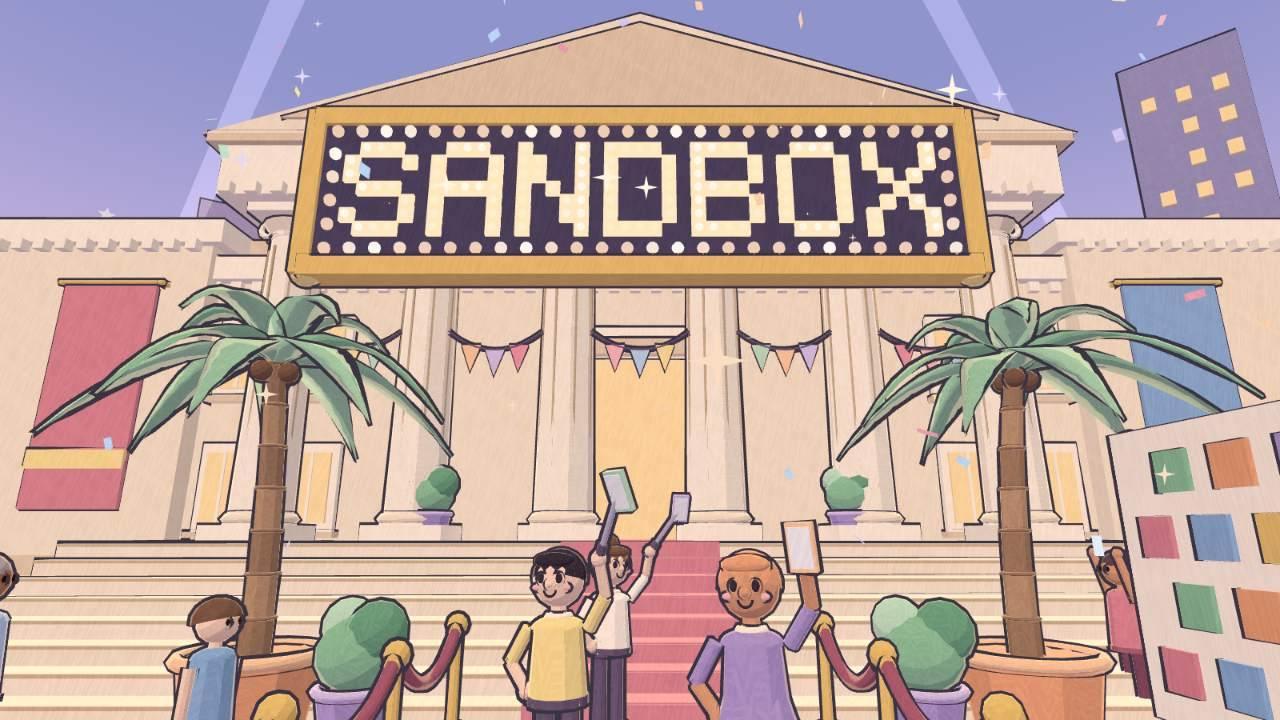
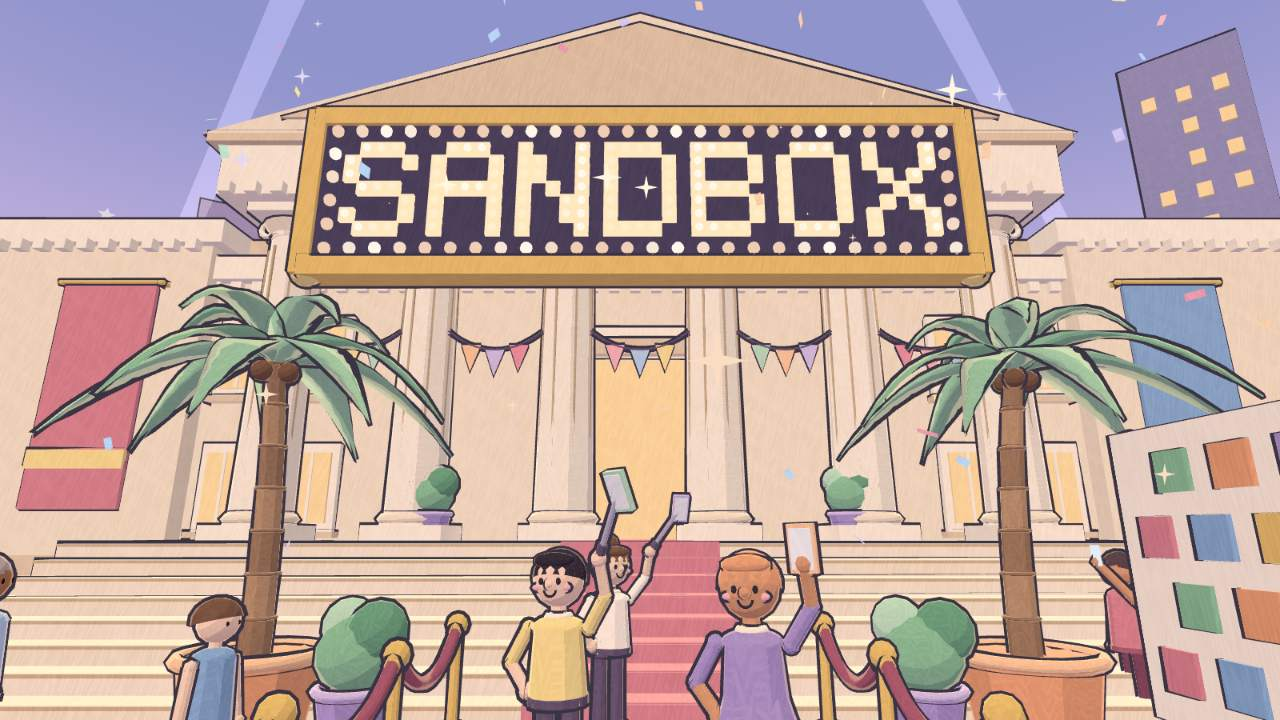
fix(hero): friendlier eyes, props held in hands, joined-up limbs (#19)
* fix(hero): friendlier eyes, props held in hands, joined-up limbs

- Eyes are small solid dark dots on everyone, left out of the ink outline
  (the hull drew a ring round each tiny eye, which made them stare).
- Crowd arms are posed one at a time from the shoulder; phones and the
  paparazzi's cameras are placed from the hands every frame, so they stay
  gripped through the bounce, sway and waving.
- Shoulder and elbow balls close the joints; resting hands hang clear of the
  hips; the crowd's necks reach into the shoulders on the lite tier.
- Influencers' phones stand in the hand (or on the selfie stick's end).
- Posters re-rendered.

* fix(hero): eyes take the palette's ink

---------

diff --git a/src/hero/scene.js b/src/hero/scene.js
@@ -1582,20 +1582,35 @@ function crowdBody(low) {
   return mergeGeometries(parts);
 }
 
+/** The eyes, the same on everyone: small solid dots, a little taller than wide, with no outline. */
+const EYE_INK = INK;
+
 /**
  * A crowd member's head on its neck: the instance colour is the skin; the eyes
- * are baked in, the hair is its own mesh. @param {boolean} low the lite tiers' version
+ * are baked in, the hair is its own mesh. The neck reaches down into the
+ * shoulders, so no gap opens under it. The outline hull (userData.hull) is the
+ * head and neck only: an ink ring round each little eye made them stare.
+ * @param {boolean} low the lite tiers' version
  */
 function crowdHead(low) {
-  const parts = [
-    tinted(new CylinderGeometry(0.06, 0.07, 0.12, 5, 1, true), '#FFFFFF', place(0, 0.05, 0)),
+  const solid = [
+    tinted(new CylinderGeometry(0.06, 0.07, 0.18, 5, 1, true), '#FFFFFF', place(0, 0.02, 0)),
     low
       ? tinted(new IcosahedronGeometry(0.2, 1), '#FFFFFF', place(0, 0.29, 0))
       : tinted(new SphereGeometry(0.2, 10, 7), '#FFFFFF', place(0, 0.29, 0)),
   ];
-  for (const sx of [-1, 1])
-    parts.push(tinted(new IcosahedronGeometry(0.028, 0), '#3A2A30', placeScaled(sx * 0.07, 0.3, 0.185, [1, 1.3, 0.6])));
-  return mergeGeometries(parts);
+  const eyes = [-1, 1].map((sx) =>
+    tinted(
+      new SphereGeometry(0.019, low ? 5 : 6, low ? 3 : 4),
+      EYE_INK,
+      placeScaled(sx * 0.068, 0.285, 0.182, [1, 1.3, 0.6]),
+    ),
+  );
+  const geometry = mergeGeometries([...solid, ...eyes]);
+  const outline = mergeGeometries(solid.map((g) => g.clone().deleteAttribute('color').deleteAttribute('normal')));
+  geometry.userData.hull = hullGeometry(outline);
+  outline.dispose();
+  return geometry;
 }
 
 /**
@@ -1632,19 +1647,24 @@ const CROWD_HAIR = [
   COCOA,
 ];
 
+/** Where a crowd member's hand is, in the frame of one arm (`crowdArm`). */
+export const CROWD_HAND = new Vector3(0, -0.6, 0.01);
+/** A crowd member's shoulders, in their body's frame (scaled by their build). */
+export const CROWD_SHOULDER = new Vector3(0.27, 1.38, 0);
+
 /**
- * Both arms hanging from the shoulders (the origin), hands at the bottom;
- * rotate the instance to raise them. @param {boolean} low the lite tiers' version
+ * One arm hanging from its shoulder (the origin), the hand at the bottom
+ * (`CROWD_HAND`); turn the instance to point it. The shoulder is a ball, so
+ * the arm stays joined to the body however it is raised.
+ * @param {boolean} low the lite tiers' version
  */
-function crowdArms(low) {
-  const parts = [];
-  for (const sx of [-1, 1]) {
-    parts.push(
-      tinted(new CylinderGeometry(0.06, 0.055, 0.56, low ? 4 : 6, 1, true), '#FFFFFF', place(sx * 0.27, -0.28, 0)),
-    );
-    parts.push(tinted(new IcosahedronGeometry(0.075, 0), '#FFFFFF', place(sx * 0.27, -0.6, 0.01)));
-  }
-  return mergeGeometries(parts);
+function crowdArm(low) {
+  const sides = low ? 5 : 6;
+  return mergeGeometries([
+    tinted(new SphereGeometry(0.066, sides, 3), '#FFFFFF'),
+    tinted(new CylinderGeometry(0.06, 0.055, 0.56, sides, 1, true), '#FFFFFF', place(0, -0.28, 0)),
+    tinted(new IcosahedronGeometry(0.075, 0), '#FFFFFF', place(CROWD_HAND.x, CROWD_HAND.y, CROWD_HAND.z)),
+  ]);
 }
 
 /**
@@ -1770,13 +1790,15 @@ function crowd(count, paparazzi, random, low = false) {
   const material = toon({ vertexColors: true });
   const body = new InstancedMesh(crowdBody(low), material, n);
   const head = new InstancedMesh(crowdHead(low), material, n);
+  head.userData.hull = head.geometry.userData.hull;
   const shortHaired = folks.filter((f) => f.hair !== 1);
   const longHaired = folks.filter((f) => f.hair === 1);
   const hairShort = new InstancedMesh(crowdHair(low, false), material, Math.max(1, shortHaired.length));
   const hairLong = new InstancedMesh(crowdHair(low, true), material, Math.max(1, longHaired.length));
   /** Each person's slot in their hair mesh. */
   const hairSlot = folks.map((f) => (f.hair === 1 ? longHaired : shortHaired).indexOf(f));
-  const arms = new InstancedMesh(crowdArms(low), material, n);
+  // Two arms each, so each can reach on its own: slots 2i and 2i + 1.
+  const arms = new InstancedMesh(crowdArm(low), material, n * 2);
   const phones = new InstancedMesh(new BoxGeometry(0.16, 0.28, 0.04), new MeshBasicMaterial({ color: '#E3EEFB' }), n);
   const cameras = new InstancedMesh(
     mergeGeometries([
@@ -1790,6 +1812,8 @@ function crowd(count, paparazzi, random, low = false) {
   body.name = 'crowd-bodies';
   head.name = 'crowd-heads';
   arms.name = 'crowd-arms';
+  phones.name = 'crowd-phones';
+  cameras.name = 'crowd-cameras';
   hairShort.name = 'crowd-hair';
   hairLong.name = 'crowd-hair-long';
   const skin = SKIN.map((c) => new Color(c));
@@ -1797,7 +1821,8 @@ function crowd(count, paparazzi, random, low = false) {
     const top = f.camera ? DUSK : (random() < 0.5 ? MIDS : BRIGHTS)[Math.floor(random() * 6)];
     body.setColorAt(i, new Color(top));
     head.setColorAt(i, skin[i % skin.length]);
-    arms.setColorAt(i, skin[i % skin.length]);
+    arms.setColorAt(i * 2, skin[i % skin.length]);
+    arms.setColorAt(i * 2 + 1, skin[i % skin.length]);
     (f.hair === 1 ? hairLong : hairShort).setColorAt(hairSlot[i], new Color(f.hairColor));
   });
   hairShort.count = shortHaired.length;
@@ -1814,15 +1839,46 @@ function crowd(count, paparazzi, random, low = false) {
 
   const m = new Matrix4();
   const q = new Quaternion();
-  const raise = new Quaternion();
+  const reach = new Quaternion();
   const s = new Vector3();
   const p = new Vector3();
   const up = new Vector3(0, 1, 0);
-  const side = new Vector3(1, 0, 0);
-  const offset = new Vector3();
+  const down = new Vector3(0, -1, 0);
   const flat = new Quaternion();
   const built = new Vector3();
   const puff = new Vector3();
+  const shoulder = new Vector3();
+  const dir = new Vector3();
+  const hands = [new Vector3(), new Vector3()];
+  /** The phone's centre above the hand gripping its lower end. */
+  const phoneGrip = new Vector3(0, 0.085, 0);
+  /**
+   * A direction for an arm, in the body's frame: from shoulder x `from`, so
+   * the hand (at `length`) ends at body x `to`, rising `rise` radians from
+   * straight ahead (negative is down).
+   * @param {number} from @param {number} to @param {number} length @param {number} rise
+   */
+  const aim = (from, to, length, rise) => {
+    const dx = clamp((to - from) / length, -0.95, 0.95);
+    const k = Math.sqrt(1 - dx * dx);
+    return dir.set(dx, k * Math.sin(rise), k * Math.cos(rise));
+  };
+  /**
+   * Points one arm (`side` -1 or 1) of person `i` along `direction` (body
+   * frame) from their shoulder, and returns where its hand is, in world space.
+   * @param {number} i @param {number} side @param {Vector3} direction @param {number} hop
+   */
+  const pose = (i, side, direction, hop) => {
+    const f = folks[i];
+    shoulder
+      .set(side * CROWD_SHOULDER.x * f.w, CROWD_SHOULDER.y * f.h, 0)
+      .applyQuaternion(q)
+      .add(p.set(f.x, hop, f.z));
+    reach.setFromUnitVectors(down, direction.normalize()).premultiply(q);
+    const slot = i * 2 + (side > 0 ? 1 : 0);
+    arms.setMatrixAt(slot, m.compose(shoulder, reach, built));
+    return hands[side > 0 ? 1 : 0].copy(CROWD_HAND).applyMatrix4(m);
+  };
   /**
    * @param {number} t
    * @param {InstancedMesh} blobs the shared contact shadows; fills from `slot`
@@ -1843,25 +1899,28 @@ function crowd(count, paparazzi, random, low = false) {
       puff.copy(s);
       if (f.hair === 2) puff.x = puff.z = s.x * 1.12;
       (f.hair === 1 ? hairLong : hairShort).setMatrixAt(hairSlot[i], m.compose(p, q, f.hair === 1 ? s : puff));
-      // Arms from the shoulders: down, hands together in front, raised and
-      // cheering, or up to the face holding a camera.
-      const angle = f.camera
-        ? -2.45
-        : f.arms
-          ? Math.PI + 0.35 + 0.15 * Math.sin(t * 2.1 + f.phase)
-          : f.front
-            ? -0.42
-            : 0.06;
-      raise.setFromAxisAngle(side, angle);
-      arms.setMatrixAt(i, m.compose(p.set(f.x, hop + 1.38 * f.h, f.z), flat.copy(q).multiply(raise), built));
-      if (f.phone || f.camera) {
-        offset
-          .set(0, f.camera ? 0.44 : 0.68, f.camera ? 0.4 : 0.22)
-          .multiplyScalar(f.h)
-          .applyQuaternion(q);
-        p.set(f.x, hop + 1.38 * f.h, f.z).add(offset);
-        if (f.camera) cameras.setMatrixAt(c++, m.compose(p, q, s.set(1, 1, 1)));
-        else phones.setMatrixAt(k++, m.compose(p, q, s.set(1, 1, 1)));
+      // Arms from the shoulders: down (clear of the hips), hands together in
+      // front, raised and cheering, one up holding a phone, or both up to the
+      // face holding a camera. Whatever they hold is placed from the hands.
+      const from = CROWD_SHOULDER.x * f.w;
+      const length = -CROWD_HAND.y * f.h;
+      const wave = 0.15 * Math.sin(t * 2.1 + f.phase);
+      for (const sx of [-1, 1]) {
+        if (f.camera) pose(i, sx, aim(sx * from, sx * 0.2, length, 0.78), hop);
+        else if (f.phone && sx > 0) pose(i, sx, aim(from, 0.12, length, 1.05 + wave), hop);
+        else if (f.arms && !f.phone) pose(i, sx, dir.set(sx * 0.35, 0.9, 0.3 + wave), hop);
+        else if (f.front) pose(i, sx, aim(sx * from, sx * 0.08, length, -0.98), hop);
+        else pose(i, sx, dir.set(sx * 0.15, -1, 0.06), hop);
+      }
+      if (f.camera) {
+        // Held in both hands, which grip its sides.
+        p.copy(hands[0]).add(hands[1]).multiplyScalar(0.5);
+        cameras.setMatrixAt(c++, m.compose(p, q, s.set(1, 1, 1)));
+        emitters[devices.indexOf(f)].position.copy(p);
+      } else if (f.phone) {
+        // Upright in the raised hand, which closes round its lower end.
+        p.copy(phoneGrip).applyQuaternion(q).add(hands[1]);
+        phones.setMatrixAt(k++, m.compose(p, q, s.set(1, 1, 1)));
         emitters[devices.indexOf(f)].position.copy(p);
       }
       // The contact shadow: a little smaller and lighter while they're up on their toes.
@@ -1883,7 +1942,7 @@ function crowd(count, paparazzi, random, low = false) {
  * shoes, legs (or a skirt), a top with a collar and a belt, arms with hands
  * (one on the hip, one up holding a phone or a selfie stick), a neck, a round
  * head with eyes, cheeks, a nose and a smile, and hair (a bob, a ponytail or
- * a bun). Returns where the phone is, for the flashes.
+ * a bun). Returns where the phone is, for the flashes, and the hand holding it.
  * @param {Batch} b
  * @param {{ outfit: string, hair: string, skin: string, case: string, stick: boolean, skirt: boolean, style: number }} look
  */
@@ -1905,11 +1964,12 @@ function figure(b, look) {
   b.add(new CylinderGeometry(0.275, 0.275, 0.07, 14), look.skirt ? BUTTER_MID : PLUM, place(0, 0.92, 0));
   b.add(new TorusGeometry(0.1, 0.035, 6, 12), STONE_TRIM, place(0, 1.6, 0, 0, Math.PI / 2));
   b.cylinder(0.065, 0.075, 0.16, 10, skin, 0, 1.66, 0);
-  // Head and face.
+  // Head and face. The eyes are small solid dots like the crowd's, with no
+  // outline: an ink ring round them made them stare.
   const hy = 1.92;
   b.ball(0.24, skin, 0, hy, 0, [1, 1.02, 1], 12);
   for (const sx of [-1, 1]) {
-    b.ball(0.034, INK, sx * 0.085, hy + 0.02, 0.215, [1, 1.35, 0.6], 8);
+    b.add(new SphereGeometry(0.024, 8, 6), EYE_INK, placeScaled(sx * 0.082, hy - 0.005, 0.222, [1, 1.3, 0.6]), false);
     b.ball(0.045, ROSE, sx * 0.14, hy - 0.06, 0.18, [1, 0.6, 0.4], 8);
   }
   b.ball(0.035, skin, 0, hy - 0.03, 0.235, [1, 0.9, 1], 8);
@@ -1923,28 +1983,32 @@ function figure(b, look) {
   b.ball(0.16, hair, 0, hy + 0.17, 0.12, [1.25, 0.45, 0.7], 10);
   if (look.style === 1) b.ball(0.12, hair, 0, hy - 0.05, -0.26, [0.8, 1.6, 0.8], 10);
   if (look.style === 2) b.ball(0.12, hair, 0, hy + 0.27, -0.06, [1, 1, 1], 10);
+  // Arms in sleeves to the elbow, then bare forearms and hands. Balls at the
+  // shoulders and elbows keep each joint closed whatever its angle.
+  /** @param {Vector3} shoulder @param {Vector3} elbow @param {Vector3} hand */
+  const arm = (shoulder, elbow, hand) => {
+    b.ball(0.066, outfit, shoulder.x, shoulder.y, shoulder.z, [1, 1, 1], 8);
+    b.pole(shoulder, elbow, 0.06, outfit, 8);
+    b.ball(0.06, outfit, elbow.x, elbow.y, elbow.z, [1, 1, 1], 8);
+    b.pole(elbow, hand, 0.052, skin, 8);
+    b.ball(0.075, skin, hand.x, hand.y, hand.z, [1, 1, 1], 8);
+  };
   // Left arm: elbow out, hand on the hip.
-  const lShoulder = new Vector3(-0.29, 1.5, 0);
-  const lElbow = new Vector3(-0.47, 1.2, -0.02);
-  const lHand = new Vector3(-0.28, 0.98, 0.04);
-  b.pole(lShoulder, lElbow, 0.06, outfit, 8);
-  b.pole(lElbow, lHand, 0.052, skin, 8);
-  b.ball(0.075, skin, lHand.x, lHand.y, lHand.z, [1, 1, 1], 8);
+  arm(new Vector3(-0.29, 1.5, 0), new Vector3(-0.47, 1.2, -0.02), new Vector3(-0.28, 0.98, 0.04));
   // Right arm: up, holding the phone or the selfie stick.
-  const rShoulder = new Vector3(0.29, 1.5, 0);
-  const rElbow = new Vector3(0.48, 1.78, 0.1);
   const rHand = new Vector3(0.46, 2.1, 0.22);
-  b.pole(rShoulder, rElbow, 0.06, outfit, 8);
-  b.pole(rElbow, rHand, 0.052, skin, 8);
-  b.ball(0.075, skin, rHand.x, rHand.y, rHand.z, [1, 1, 1], 8);
-  // A short selfie stick in light metal with a grip, or the phone in the hand.
-  const tip = look.stick ? new Vector3(0.74, 2.66, 0.5) : new Vector3(0.46, 2.22, 0.32);
+  arm(new Vector3(0.29, 1.5, 0), new Vector3(0.48, 1.78, 0.1), rHand);
+  // The phone: a pastel case, its screen out toward the crowd. On a short
+  // selfie stick in light metal, gripped in the hand, it sits on the stick's
+  // end; otherwise it stands in the hand, which closes round its lower end.
+  const face = new Vector3(0, 1.9, 2);
+  const tip = look.stick ? new Vector3(0.74, 2.66, 0.5) : rHand.clone();
+  const phone = new Matrix4().lookAt(tip, face, new Vector3(0, 1, 0));
   if (look.stick) {
     b.pole(rHand, tip, 0.028, METAL, 6);
     b.pole(rHand.clone().lerp(tip, -0.12), rHand.clone().lerp(tip, 0.22), 0.045, PLUM, 8);
-  }
-  // The phone: a pastel case, its screen out toward the crowd.
-  const phone = new Matrix4().lookAt(tip, new Vector3(0, 1.9, 2), new Vector3(0, 1, 0)).setPosition(tip);
+  } else tip.add(new Vector3(0, 0.11, 0).applyMatrix4(phone));
+  phone.setPosition(tip);
   b.add(new BoxGeometry(0.21, 0.36, 0.05), look.case, phone);
   b.add(
     new BoxGeometry(0.17, 0.3, 0.02),
@@ -1952,7 +2016,7 @@ function figure(b, look) {
     phone.clone().multiply(new Matrix4().makeTranslation(0, 0, -0.03)),
     false,
   );
-  return tip;
+  return { phone: tip, hand: rHand };
 }
 
 /**
@@ -1981,8 +2045,10 @@ function influencers(random, still) {
   const emitters = [];
   looks.forEach((look, i) => {
     const b = new Batch();
-    const tip = figure(b, { ...look, skin: SKIN[(i * 2) % SKIN.length], case: BRIGHTS[(i + 3) % BRIGHTS.length] });
+    const held = figure(b, { ...look, skin: SKIN[(i * 2) % SKIN.length], case: BRIGHTS[(i + 3) % BRIGHTS.length] });
+    const tip = held.phone;
     const g = new Group();
+    g.userData.held = { ...held, stick: look.stick };
     g.add(b.mesh());
     // On the carpet they stand on its top; elsewhere on the plaza.
     const onCarpet = Math.abs(look.x) < 1.45 && look.z > 3.6 && look.z < KERB_Z - 0.2;
